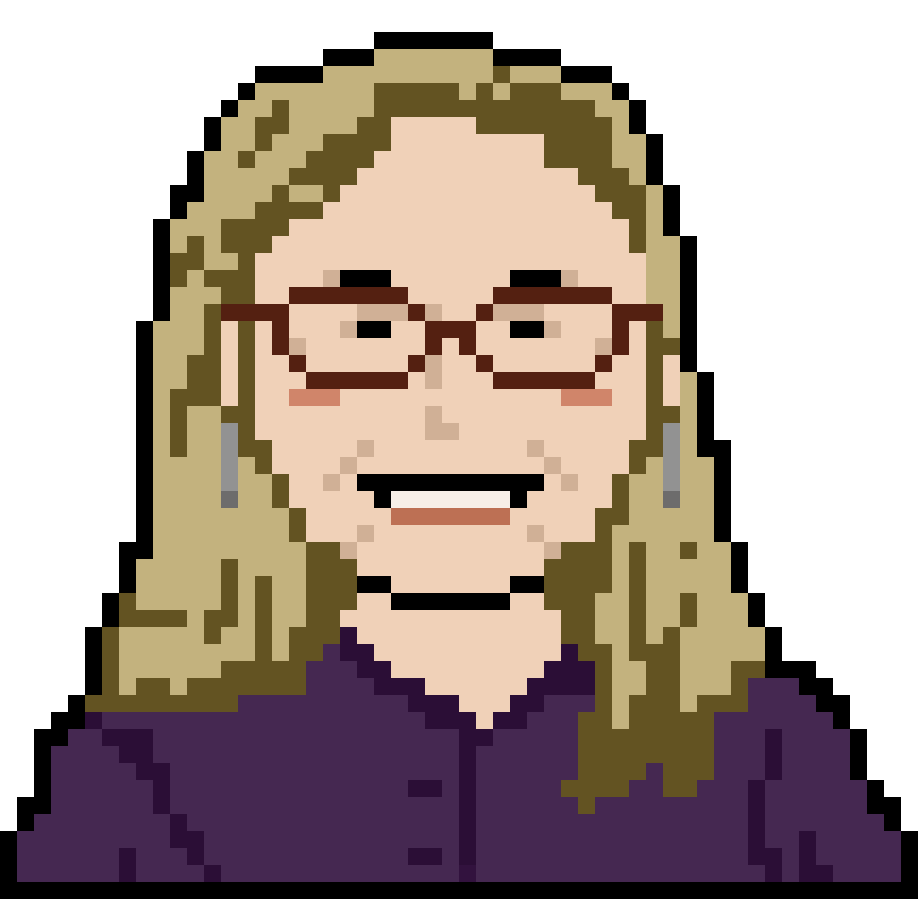
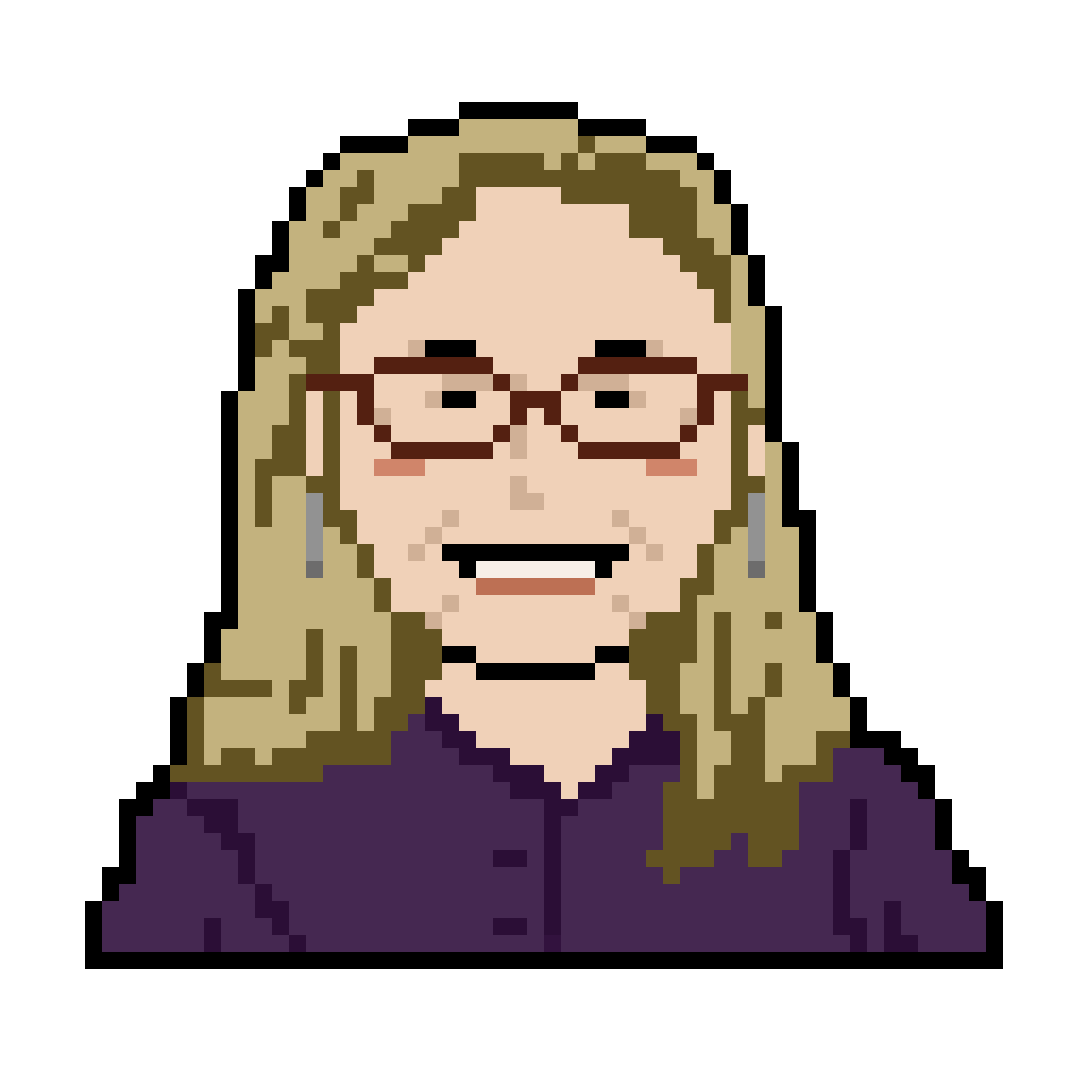
Updated everything

diff --git a/js/scripts.js b/js/scripts.js
@@ -257,11 +257,11 @@ function positiveEvent() {
     wagon.food += 100
     wagon.gas += 10
   } else if (num === 3) {
-    $('.ongoing-events').prepend('Eric gets hungry and convinces the rest of the Lunch Bunch to stop at Easy Rider Diner. Tacos increased by ' + 30 + '. <br><br><br>');
+    $('.ongoing-events').prepend('Eric gets hungry and convinces the rest of the Lunch Bunch to stop at Iaria’s Italian Restaurant. Tacos increased by ' + 30 + '. <br><br><br>');
     // Modify wagon attributes
     wagon.food += 30
   } else if (num === 4) {
-    $('.ongoing-events').prepend('As you travel along, Nicholas remembers that he left Sofie at the office. Arrival is delayed. Gas decreased by ' + 10 + '. <br><br><br>');
+    $('.ongoing-events').prepend('Nicholas forgot his dog Sofie at the old office. Arrival is delayed. Gas decreased by ' + 10 + '. <br><br><br>');
     // Modify wagon attributes
     wagon.gas -= 10
   } else if (num === 5) {
@@ -282,11 +282,11 @@ function negativeEvent() {
   } else if (num === 2) {
     $(".ongoing-events").prepend("Your party is ambushed by NERF GUN BANDITS! They hold you hostage and take some of your Tacos. " + wagon.characters[index].name + " got hurt! <br><br><br>")
     wagon.food -= ranSupplyDecrease
-    wagon.characters.health -= 15
+    wagon.characters[index].health -= 15
 
-  } else if (num === 3 && wagon.food > 10) {
-    $(".ongoing-events").prepend(+ ranSupplyDecrease + " of your Tacos are emptied because " + wagon.characters[index].name + " got hungry. <br><br><br>")
-    wagon.food -= ranSupplyDecrease
+  } else if (num === 3 && wagon.addie > 10) {
+    $(".ongoing-events").prepend(+ ranSupplyDecrease + " of your addies are gone because " + wagon.characters[index].name + " used them to play Jenga. <br><br><br>")
+    wagon.addie -= ranSupplyDecrease
     wagon.characters[index].health = 100
     $('.wagon-food-remaining').text(wagon.food.toFixed(2));
   } else if (num === 4) {
@@ -337,7 +337,7 @@ function landmarkEvent() {
   var num = wagon.distance
   if (num === 4) {
     buildLandmarkModal(num, "fixRamen", "leaveRamen", "Reassemble Ramen", "Leave it")
-    $(".button-content").prepend("During the move, you accidentally knock over Joe Black's Great Wall of Ramen that's piled precariously high in the moving van. You can either reassemble the ramen exactly the way it was without telling Joe, or leave it and face his wrath...    <br><br><br>")
+    $(".button-content").prepend("During the move, you accidentally knock over The Great Wall of Ramen that’s piled precariously high in the moving van. You can either reassemble the ramen exactly the way it was, or leave it and face an art director's wrath… <br><br><br>")
     $("#buttonModal").toggle();
   } else if (num === 8) {
     buildModal("Idle");
@@ -348,56 +348,60 @@ function landmarkEvent() {
     $("#back-button").hide();
   } else if (num === 12) {
     buildLandmarkModal(num, "crossRiver", "detourRiver", "Go Under Bridge", "Go Another Way")
-    $(".button-content").prepend("You have reached the College Ave bridge. You can choose to risk supplies and your party by going under the bridge, or take a detour that adds time to your trip.  <br><br><br>")
+    $(".button-content").prepend("You have reached the College Ave bridge (Clearance Height 13’ 9”). The only question now is will you fit? You can choose to risk supplies and your party by going under the bridge, or take a detour that adds time to your trip. <br><br><br>")
     $("#buttonModal").toggle();
   } else if (num === 14) {
     buildModal("sunKing");
-    $(".ongoing-events").prepend("You're pretty far along on your journey, but your party is suffering from starvation. It has only been a few minutes since their last taco! You must pull over and enter Sun King Brewery, the home of Nacho A La Margarita Outpost. This is a one-stop shop for all the beer and Mexican food your heart desires, just a five minute walk from the new building! <br><br><br>")
+    $(".ongoing-events").prepend("You’re pretty far along on your journey, but your party is suffering from starvation. It has only been a few minutes since their last taco! You must pull over and enter Sun King Brewery, the home of Nacho A La Margarita Outpost. This is a one-stop shop for all the beer and Mexican food your heart desires, just a five minute walk from the new building! <br><br><br>")
     $("#myModal").toggle();
     wagon.food += 200;
     $("#gameMainScreen").hide();
     $("#landmarkStop2").fadeIn(500);
     $("#back-button").hide();
   } else if (num === 16) {
-    buildLandmarkModal(num, "friend", "fight", "Become Friends", "Fight")
-    $(".button-content").prepend("You have made it! But it appears you are stopped by the ghost of Gilbert Matzke, a little boy who choked and died in the building. Since 1913, he has haunted the building, cursing whoever crosses his path to choke on a peanut, and thus needs to be tamed. Luckily our in-house historian Evan, thinks he can befriend the ghost. Do you give him a chance or take your fate into your own hands? <br><br><br>")
+    buildLandmarkModal(num, "friend", "fight", "Confront Riley In A Rhyme Battle", "Run Past Riley Into The New Building")
+    $(".button-content").prepend("You've made it to Lockerbie Square! But it appears you have been stopped by James Whitcomb Riley, guardian poet-spirit of the neighborhood. He's challenged you to a rhyme battle before you can enter. Do you step up, or just try to run past him into our new building? <br><br><br>")
     $("#buttonModal").toggle();
   } else if (num === 17) {
     // buildEndModal(num, "win", "Play Again!")
-    var endScore = wagon.buildScore()
+    // var endScore = wagon.buildScore()
     $(".endingStickyNote").fadeIn(500);
     $(".ending-modal").fadeIn(600);
     $("#ending-button").fadeIn(600);
-    // $(".button-content").prepend("<h4>WINNER!</h4>Your score is: " + endScore);
+    // $(".button-content").prepend("<h4>Congratulations, you win!! </h4>Your score is: " + endScore);
 
   }
 }
 //landmark 1 button events
 function leaveRamen() {
-  for (i = 0; i < 8; i++) {
-    wagon.days += 1
-    wagon.resourceChecker()
-    wagon.statusAdjuster()
-  }
-  $(".ongoing-events").prepend("Joe didn't even notice. <br><br><br>")
+  var index = Math.floor(Math.random() * Math.floor(wagon.characters.length))
+  buildModal("ramenFail");
+  $(".ongoing-events").prepend("Uh oh, the ramen was placed in the wrong order. The art director  is now coming for you " + wagon.characters[index].name + " heads back to the old office to hide. <br><br><br>")
+  $("#myModal").toggle();
+  wagon.characters[index].health = 0
+  wagon.characters[index].status = "Unresponsive"
   wagon.resourceChecker()
   wagon.statusAdjuster()
 }
+
 function fixRamen() {
   var num = Math.floor(Math.random() * Math.floor(100))
   var index = Math.floor(Math.random() * Math.floor(wagon.characters.length))
   if (num > 50) {
     buildModal("ramenFail");
-    $(".ongoing-events").prepend(" Uh oh, the ramen was left in the wrong order. Joe is now coming for you. " + wagon.characters[index].name + " heads back to the old office to hide. <br><br><br>")
+    $(".ongoing-events").prepend("Uh oh, the ramen was placed in the wrong order. The art director  is now coming for you " + wagon.characters[index].name + " heads back to the old office to hide. <br><br><br>")
     $("#myModal").toggle();
     wagon.characters[index].health = 0
     wagon.characters[index].status = "Unresponsive"
     for (i = 0; i < 4; i++) {
       wagon.days += 1
     }
+  } else {
+    $(".ongoing-events").prepend("Congratulations! No one noticed. <br><br><br>")
   }
   wagon.resourceChecker()
   wagon.statusAdjuster()
+
 }
 
 //landmark 1 button events
@@ -442,16 +446,16 @@ function crossRiver() {
 // landmark 3 button events
 function fight() {
   var index = Math.floor(Math.random() * Math.floor(wagon.characters.length))
+  $(".ongoing-events").prepend("Your rhyming skills were far too weak Riley's nine little goblins (oh, did we not mention he has nine little goblins?) tackle " + wagon.characters[index].name + " and carry them back to Fountain Square. <br><br><br>")
   wagon.characters[index].health = 0
-  $(".ongoing-events").prepend("The little boy was stronger than you thought. " + wagon.characters[index].name + " choked on a peanut and ran away. <br><br><br>")
   wagon.statusAdjuster()
+  wagon.resourceChecker()
 }
+
 function friend() {
-  var num = Math.floor(Math.random() * Math.floor(100))
   var index = Math.floor(Math.random() * Math.floor(wagon.characters.length))
-  if (num > 50) {
-    $(".ongoing-events").prepend("Evan was successful! The little boy's ghost is now peacefully haunting the new office. <br><br><br>")
-  }
+  wagon.characters[index].health = 0
+  $(".ongoing-events").prepend("Riley's nine little goblins (oh, did we not mention he has nine little goblins?) tackle " + wagon.characters[index].name + " and carry them back to Fountain Square. <br><br><br>")
   wagon.statusAdjuster()
   wagon.resourceChecker()
 }
@@ -467,7 +471,7 @@ function deathEvent() {
     wagon.characters[index].status = "Unresponsive"
   } else if (num === 2 && wagon.characters[index].health < 50) {
     buildModal(num);
-    $(".ongoing-events").prepend(wagon.characters[index].name + " ate a fry they found between the seats. They got a suspicious stomach bug and have to end their journey.")
+    $(".ongoing-events").prepend(wagon.characters[index].name + " ate a fry they found between the seats. They got a suspicious stomach bug and have to end their journey. <br><br><br>")
     $("#myModal").toggle();
     wagon.characters[index].health = 0
     wagon.characters[index].status = "Unresponsive"
@@ -997,17 +1001,17 @@ $(document).ready(function () {
     { name: 'jody', src: 'img/Jody.png' },
     { name: 'mary', src: 'https://placehold.co/350x450' },
     { name: 'lisa', src: 'img/Lisa.png' },
-    { name: 'joel', src: 'https://www.welldonemarketing.com/wp-content/uploads/2023/05/WDM_Personality-Joel-350x450.jpg' },
-    { name: 'mandy', src: 'https://www.welldonemarketing.com/wp-content/uploads/2023/05/WDM_Personality-Mandy-350x450.jpg' },
-    { name: 'marissa', src: 'https://www.welldonemarketing.com/wp-content/uploads/2023/05/WDM_Personality-Marissa-350x450.jpg' },
-    { name: 'rachel', src: 'https://www.welldonemarketing.com/wp-content/uploads/2023/05/WDM_Personality-Rachel-350x450.jpg' },
-    { name: 'rebecca', src: 'https://www.welldonemarketing.com/wp-content/uploads/2023/05/WDM_Personality-Rebecca-350x450.jpg' },
-    { name: 'zarrien', src: 'https://www.welldonemarketing.com/wp-content/uploads/2023/05/WDM_Personality-Zarrien-350x450.jpg' },
-    { name: 'brian', src: 'https://www.welldonemarketing.com/wp-content/uploads/2023/05/WDM_Personality-Brian-350x450.jpg' },
-    { name: 'eric', src: 'https://www.welldonemarketing.com/wp-content/uploads/2023/05/WDM_Personality-Eric-350x450.jpg' },
-    { name: 'josh', src: 'https://www.welldonemarketing.com/wp-content/uploads/2023/05/WDM_Personality-Josh-350x450.jpg' },
-    { name: 'kim', src: 'https://www.welldonemarketing.com/wp-content/uploads/2023/05/WDM_Personality-KimColes-350x450.jpg' },
-    { name: 'nate', src: 'https://www.welldonemarketing.com/wp-content/uploads/2023/05/WDM_Personality-Nate-350x450.jpg' },
+    { name: 'joel', src: 'img/Joel.png' },
+    { name: 'mandy', src: 'img/Mandy.png' },
+    { name: 'marissa', src: 'img/Marissa.png' },
+    { name: 'rachel', src: 'img/Rachel.png' },
+    { name: 'rebecca', src: 'img/Rebecca.png' },
+    { name: 'zarrien', src: 'img/Zarrien.png' },
+    { name: 'brian', src: 'img/Brian.png' },
+    { name: 'eric', src: 'img/Eric.png' },
+    { name: 'josh', src: 'img/Josh.png' },
+    { name: 'kim', src: 'img/Kim.png' },
+    { name: 'nate', src: 'img/Nate.png' },
     { name: 'ashlynn', src: 'https://placehold.co/350x450' },
     { name: 'daniel', src: 'https://placehold.co/350x450' },
     { name: 'teresa', src: 'https://placehold.co/350x450' },

diff --git a/index.html b/index.html
@@ -227,28 +227,28 @@
               <!-- Player 1 -->
               <div class="grid-item">
                 <h3>Player 1</h3>
-                <img src="https://www.welldonemarketing.com/wp-content/uploads/2023/05/WDM_Personality-Joel-350x450.jpg"
+                <img src="img/Joel.png"
                   alt="">
               </div>
               <!-- Player 2 -->
               <div class="grid-item">
                 <h3>Player 2</h3>
                 <img class="image"
-                  src="https://www.welldonemarketing.com/wp-content/uploads/2023/05/WDM_Personality-Mandy-350x450.jpg"
+                  src="img/Mandy.png"
                   alt="">
               </div>
               <!-- Player 3 -->
               <div class="grid-item">
                 <h3>Player 3</h3>
                 <img class="image"
-                  src="https://www.welldonemarketing.com/wp-content/uploads/2023/05/WDM_Personality-Marissa-350x450.jpg"
+                  src="img/Marissa.png"
                   alt="">
               </div>
               <!-- Player 4 -->
               <div class="grid-item">
                 <h3>Player 4</h3>
                 <img class="image"
-                  src="https://www.welldonemarketing.com/wp-content/uploads/2023/05/WDM_Personality-Rachel-350x450.jpg"
+                  src="img/Rachel.png"
                   alt="">
               </div>
             </div>
@@ -259,28 +259,28 @@
               <div class="grid-item">
                 <h3>Player 1</h3>
                 <img class="image"
-                  src="https://www.welldonemarketing.com/wp-content/uploads/2023/05/WDM_Personality-Brian-350x450.jpg"
+                  src="img/Brian.png"
                   alt="">
               </div>
               <!-- Player 2 -->
               <div class="grid-item">
                 <h3>Player 2</h3>
                 <img class="image"
-                  src="https://www.welldonemarketing.com/wp-content/uploads/2023/05/WDM_Personality-Eric-350x450.jpg"
+                  src="img/Eric.png"
                   alt="">
               </div>
               <!-- Player 3 -->
               <div class="grid-item">
                 <h3>Player 3</h3>
                 <img class="image"
-                  src="https://www.welldonemarketing.com/wp-content/uploads/2023/05/WDM_Personality-Josh-350x450.jpg"
+                  src="img/Josh.png"
                   alt="">
               </div>
               <!-- Player 4 -->
               <div class="grid-item">
                 <h3>Player 4</h3>
                 <img class="image"
-                  src="https://www.welldonemarketing.com/wp-content/uploads/2023/02/WDM_Personality-KimColes-350x450.jpg"
+                  src="img/Kim.png"
                   alt="">
               </div>
             </div>
@@ -356,14 +356,14 @@
           <img src="img/old-building.png" id="wagon-old-building" alt="">
         </div>
       </div>
-      <div id="map">
+      <!-- <div id="map">
         <img src="https://cdn-icons-png.flaticon.com/512/827/827184.png" alt="Map">
         <p class="tooltiptext">You must travel 1.7 miles to reach the goal.<br>Click 'continue' to travel 0.1 miles per
           block.<br>Click 'rest' to heal your team members.<br>Click 'gather' to gather more food.<br>All actions
           spend
           one
           block, and each team member consumes 5 Tacos per block.</p>
-      </div>
+      </div> -->
       <!-- <h1>Lockerbie Trail</h1> -->
       <p id="progress-title">Journey progress:</p>
       <div class="progress-images">
@@ -376,7 +376,7 @@
       <div class="row">
         <div class="col-md-4">
           <div id="sacrifice-button">
-            <img id="sacrifice" src="img/skull-icon.png" alt="Sacrifice Team">
+            <img id="sacrifice" src="img/RestartButton.png" alt="Sacrifice Team">
             <p class="tooltiptext">Clicking on this button will end your journey. You will be sent
               back at the start of the trail.</p>
           </div>
@@ -404,8 +404,8 @@
                 <p class="bold"> Tacos left <br><span id="wagon-food-remaining"></span></p>
               </div>
               <div class="col-md-4">
-                <img src="img/award_icon.png" alt="Waiting for new icon">
-                <p class="bold"> Awards left <br><span id="wagon-awards-remaining"></span></p>
+                <img src="img/Addies.png" alt="Waiting for new icon">
+                <p class="bold"> Addies left <br><span id="wagon-awards-remaining"></span></p>
               </div>
               <div class="col-md-4">
                 <img src="img/gas-icon.png" alt="gas">
@@ -441,12 +441,12 @@
 
   </div> -->
   </div>
-  <div id="mapModal" class="map-modal align-content-center">
+  <!-- <div id="mapModal" class="map-modal align-content-center">
     <img src="https://i.pinimg.com/originals/37/f6/34/37f63434299b0dc23afe3d486877f646.png" alt="">
     <div class="text-center">
       <button id="closeMap" class="btn btn-light mt-5">Close Map</button>
     </div>
-  </div>
+  </div> -->
 
   <div class="letters align-content-center">
     <div class="mainStickyNote">

diff --git a/css/styles.css b/css/styles.css
@@ -48,8 +48,8 @@ body {
 }
 
 .grid-item img {
-  max-width: 250px;
-  max-height: 250px;
+  max-width: 200px;
+  max-height: 200px;
   border: 2px solid #b4b4b4;
   border-radius: 10px;
   background: #fafafa;
@@ -96,25 +96,25 @@ span {
 #wagon-3,
 #wagon-2 {
   display: none;
-  margin-top: 135px;
+  margin-top: 120px;
   position: absolute;
   z-index: 1;
 }
 
 #wagon-1 {
   position: absolute;
-  margin-top: 135px;
+  margin-top: 120px;
   z-index: 1;
 }
 
 #wagon-old-building {
   position: absolute;
-  top: 44px;
+  top: 20px;
 }
 
 #wagon-new-building {
   position: absolute;
-  top: 47px;
+  top: 21px;
   display: none;
 }
 /* .wagon-select-screen {
@@ -197,7 +197,7 @@ input[type="radio"] {
 }
 
 #wagon-images {
-  background-image: url(../img/longBackground.png);
+  background-image: url(../img/long-background.png);
   background-size: cover;
   background-position: bottom;
   padding: 10px;
